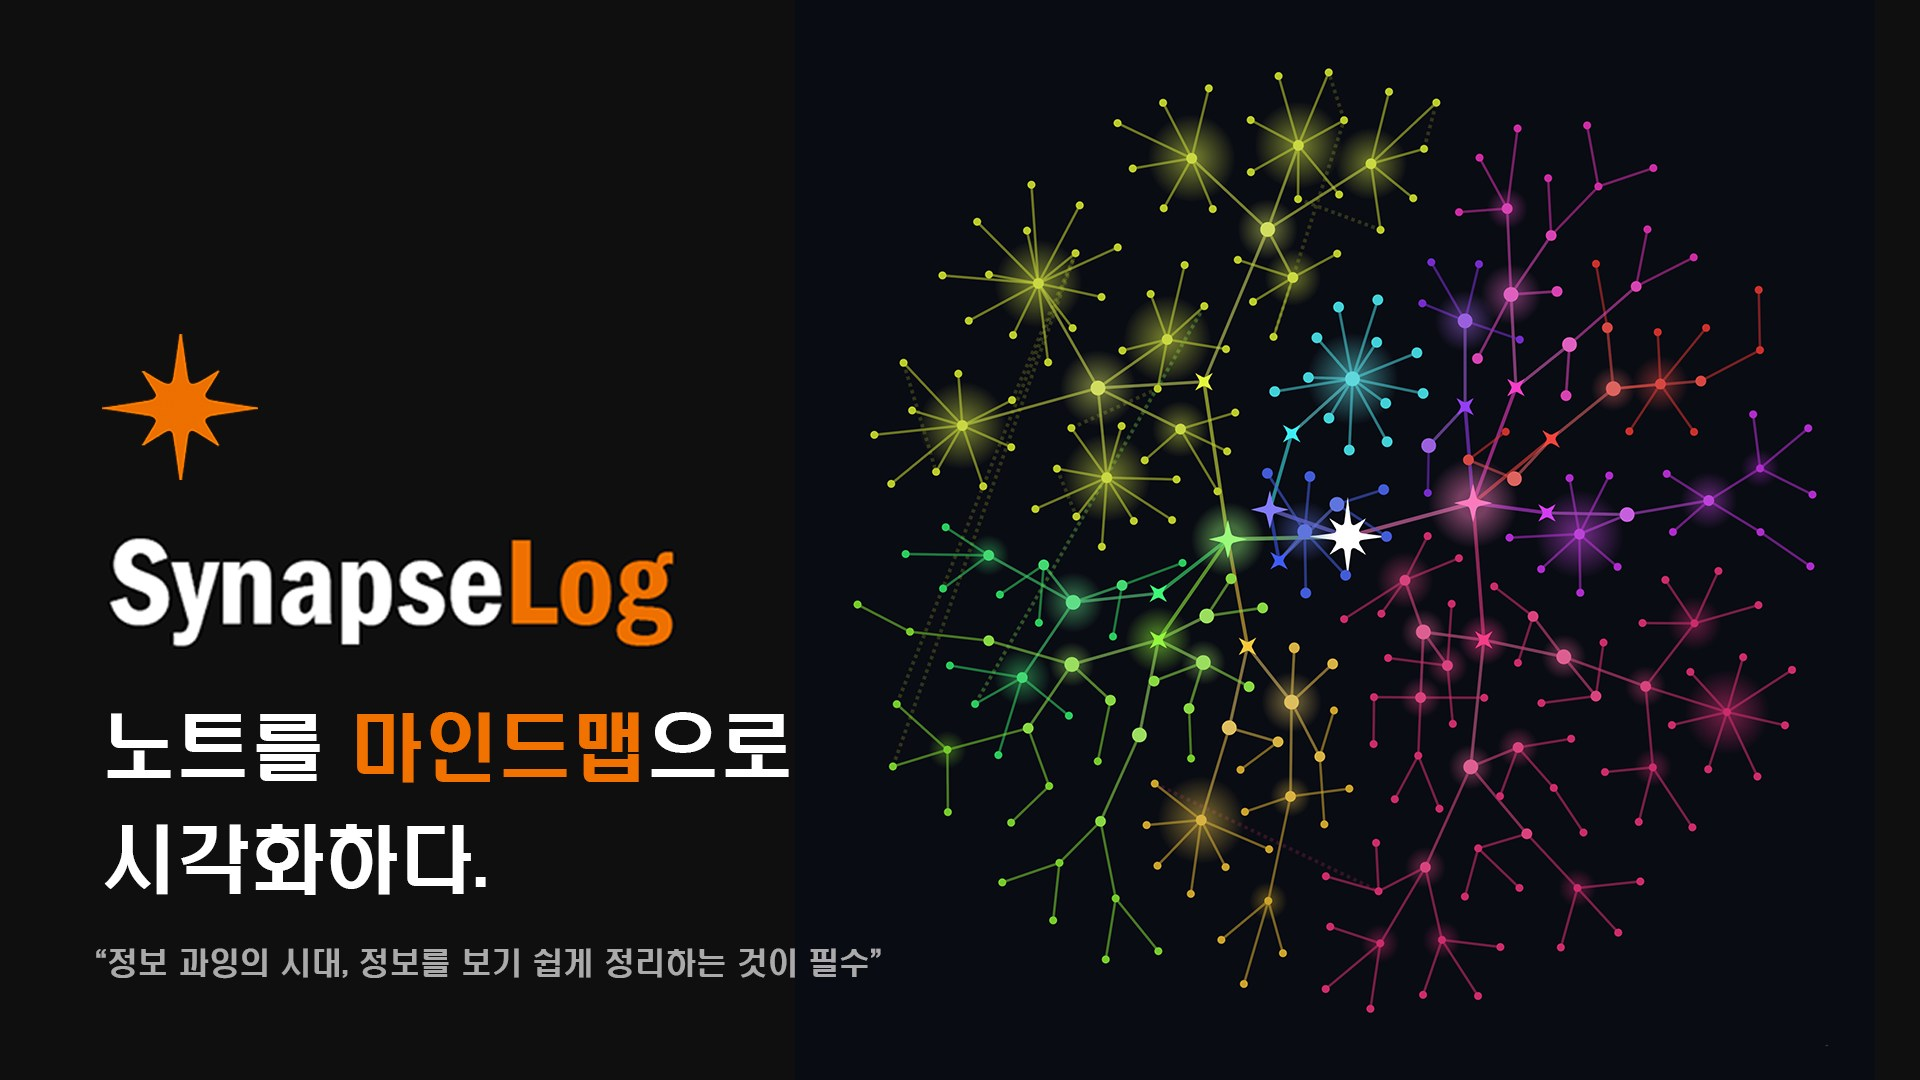
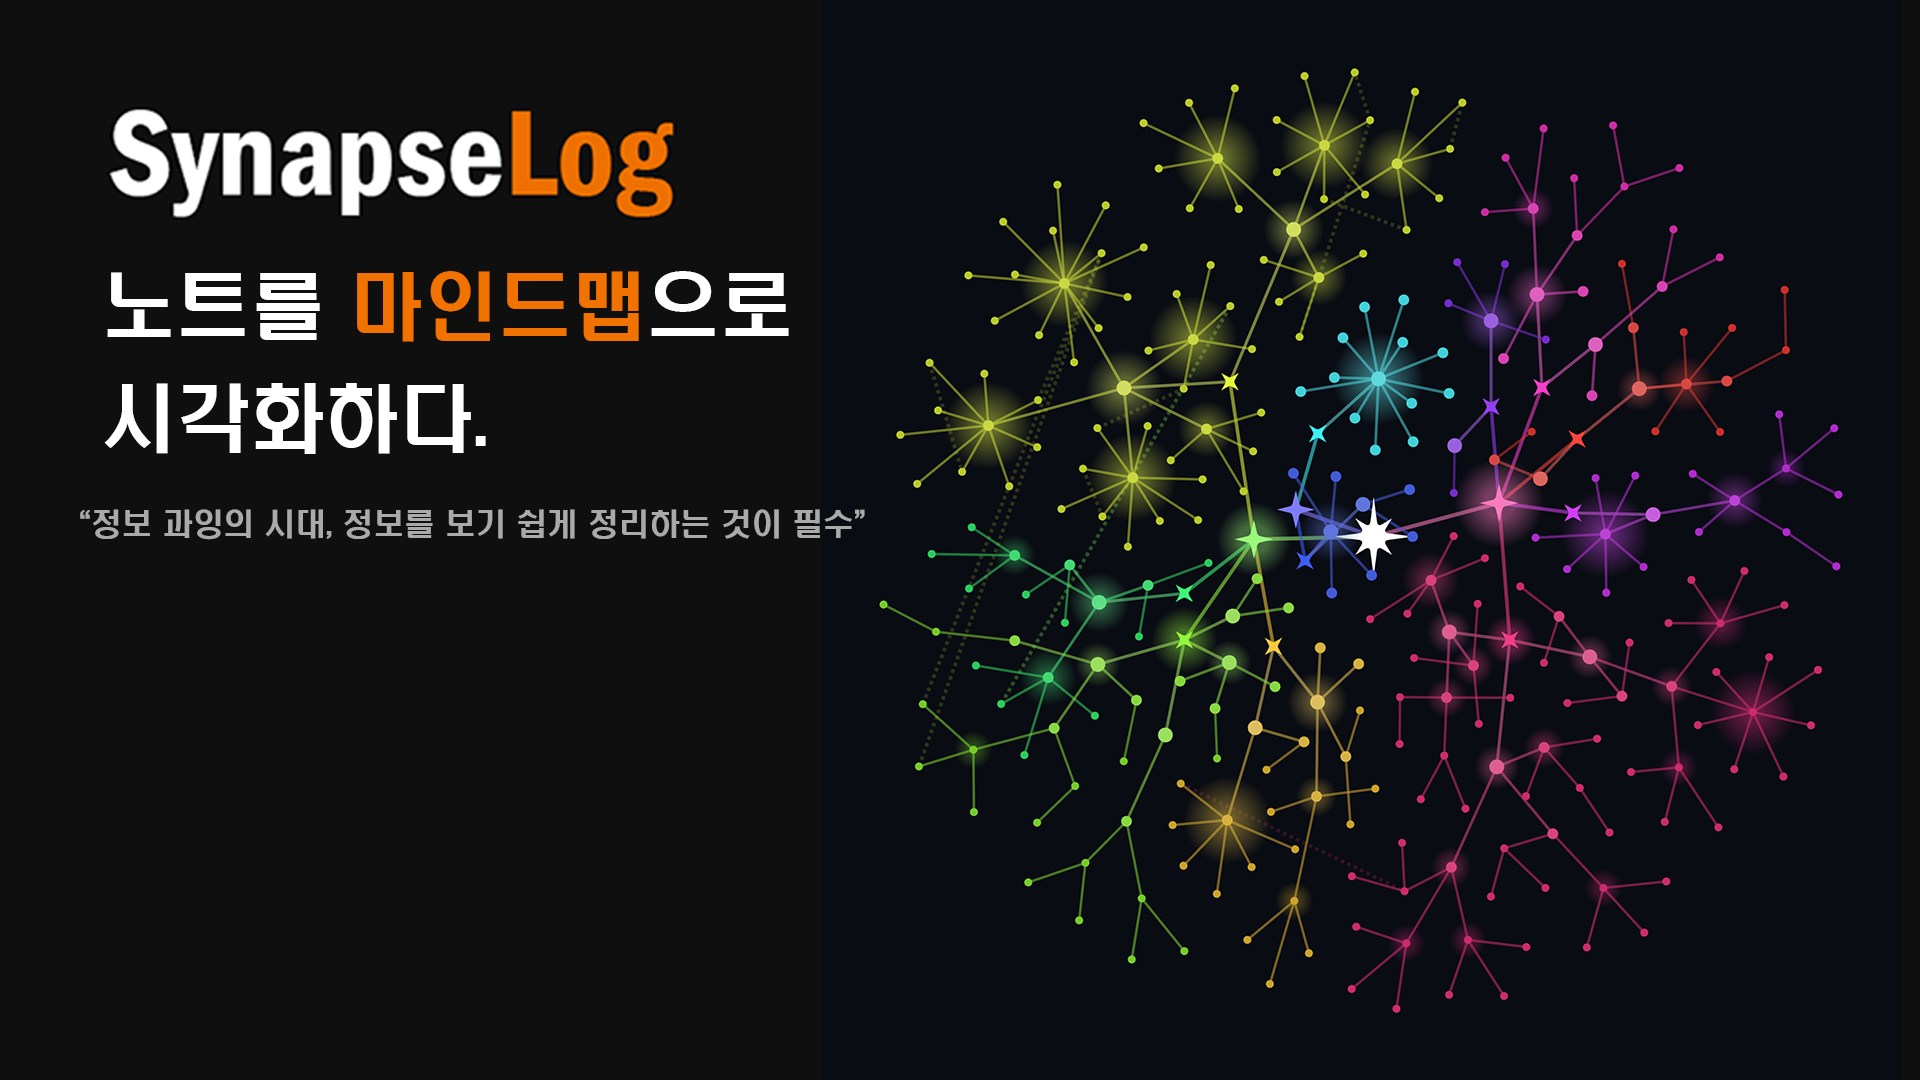
SynapseLog 썸네일 교체(썸네일_2) + 카드 비율 16:9로 수정
16:9 배너를 4:3 카드가 잘라내 이상하던 문제 해결 — 카드 aspect-ratio 4/3 -> 16/9.

diff --git a/index.html b/index.html
@@ -193,7 +193,7 @@
       <span style="font-size:12px;color:#8a8377;letter-spacing:0.08em;text-transform:uppercase;">2D · Web · Vibe Coding</span>
     </div>
     <div style="display:grid;grid-template-columns:1fr 1fr;gap:1.5rem;">
-      <figure onclick="{{ openSynapse }}" tabindex="0" role="button" style="margin:0;cursor:pointer;position:relative;aspect-ratio:4/3;overflow:hidden;border-radius:2px;">
+      <figure onclick="{{ openSynapse }}" tabindex="0" role="button" style="margin:0;cursor:pointer;position:relative;aspect-ratio:16/9;overflow:hidden;border-radius:2px;">
         <img src="assets/portfolio/synapse-thumb.jpg" alt="SynapseLog" loading="lazy" style="width:100%;height:100%;object-fit:cover;object-position:center;display:block;transition:transform 0.5s ease;" style-hover="transform:scale(1.05);">
         <div style="position:absolute;inset:0;background:linear-gradient(180deg,transparent 40%,rgba(13,12,11,0.9) 100%);"></div>
         <div style="position:absolute;left:1.75rem;bottom:1.5rem;right:1.75rem;">
